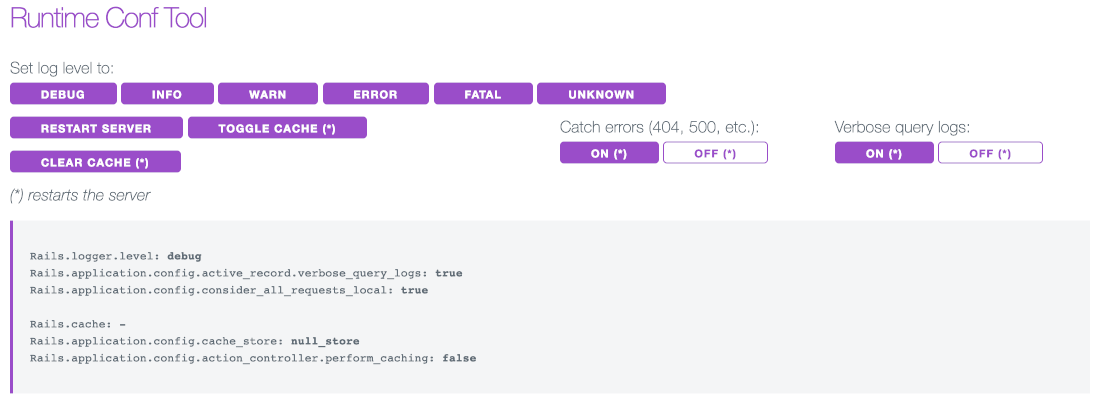
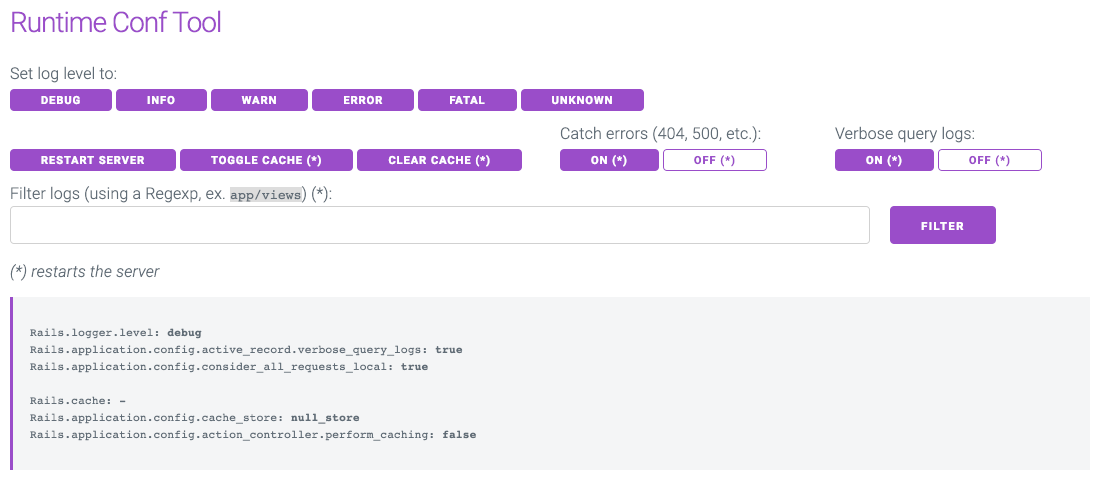
✨ Add filter_logs feature
- Add an option to filter log lines using a regular expression

diff --git a/lib/runtime_conf_tool/middleware.rb b/lib/runtime_conf_tool/middleware.rb
@@ -3,19 +3,28 @@
 module RuntimeConfTool
   LOGGER_SEVERITY = %w[debug info warn error fatal unknown].freeze # https://github.com/ruby/ruby/blob/trunk/lib/logger.rb
 
-  # The middleware
   class Middleware
     def initialize(app, options = {})
       @app = app
       @params = {
-        catch_errors:       ConfParam.new(:catch_errors, Rails.configuration, :consider_all_requests_local),
-        assets_logs:        ConfParam.new(:assets_logs, Rails.configuration.assets, :quiet),
+        assets_logs: ConfParam.new(:assets_logs, Rails.configuration.assets, :quiet),
+        catch_errors: ConfParam.new(:catch_errors, Rails.configuration, :consider_all_requests_local),
+        filter_logs: ConfParam.new(:filter_logs, nil, :filter_logs, ->(value) {
+          regexp = Regexp.new value, Regexp::IGNORECASE
+          Rails.logger = ActiveSupport::Logger.new STDOUT
+          Rails.logger.formatter = proc do |_severity, _time, _progname, msg|
+            "#{msg}\n" if msg =~ regexp
+          end
+        }),
         verbose_query_logs: ConfParam.new(:verbose_query_logs, Rails.configuration.active_record, :verbose_query_logs),
       }
       @options = (options || {}).symbolize_keys
       @options[:path] ||= '/dev'
+
       Rails.configuration.after_initialize do
-        params_load.each { |k, v| @params[k.to_sym].set v }
+        params_load.each do |k, v|
+          @params[k.to_sym].set v
+        end
         params_reset
       end
     end
@@ -24,11 +33,8 @@ module RuntimeConfTool
       req = Rack::Request.new(env)
       return @app.call(env) unless req.path == @options[:path]
 
+      restart = false
       @actions = []
-      if req.params.include? 'restart'
-        restart_server
-        @actions.push 'Restarting server'
-      end
       if LOGGER_SEVERITY.include?((req.params['log'] || '').downcase)
         level = "Logger::#{req.params['log'].upcase}"
         Rails.logger.level = level.constantize
@@ -43,21 +49,31 @@ module RuntimeConfTool
       #   # Rails.configuration.assets.quiet = false
       #   params_save(@params[:assets_logs], req.params['assets_logs'] == '1')
       #   @actions.push "assets_logs: #{req.params['assets_logs'] == '1'}"
-      #   restart_server
+      #   restart = true
       # end
       if req.params.include? 'catch_errors'
         params_save(@params[:catch_errors], req.params['catch_errors'] == '1')
         @actions.push "catch_errors: #{req.params['catch_errors'] == '1'}"
-        restart_server
+        restart = true
       end
       if req.params.include? 'cache_clear'
         Rails.cache.clear
         @actions.push "cache_clear: #{req.params['cache_clear'] == '1'}"
       end
+      if req.params.include? 'filter_logs'
+        params_save(@params[:filter_logs], req.params['filter_logs'].strip)
+        @actions.push "filter logs: #{req.params['filter_logs'].strip}"
+        restart = true
+      end
       if req.params.include? 'verbose_query_logs'
         params_save(@params[:verbose_query_logs], req.params['verbose_query_logs'] == '1')
         @actions.push "verbose_query_logs: #{req.params['verbose_query_logs'] == '1'}"
+        restart = true
+      end
+      restart = true if req.params.include? 'restart'
+      if restart
         restart_server
+        @actions.push 'Restarting server'
       end
 
       [

diff --git a/lib/runtime_conf_tool/conf_param.rb b/lib/runtime_conf_tool/conf_param.rb
@@ -2,16 +2,18 @@
 
 module RuntimeConfTool
   class ConfParam
-    attr_reader :conf, :opt, :parent
+    attr_reader :exec, :conf, :opt, :parent
 
-    def initialize(opt, parent, conf)
+    def initialize(opt, parent, conf, exec = nil)
       @opt = opt
       @parent = parent
       @conf = conf
+      @exec = exec
     end
 
     def set(value)
-      @parent.send "#{@conf}=", value
+      @parent.send("#{@conf}=", value) if @parent
+      @exec.call(value) if @exec
     end
   end
 end

diff --git a/README.md b/README.md
@@ -1,8 +1,6 @@
-# Runtime Conf Tool
+# Runtime Conf Tool [![Gem Version](https://badge.fury.io/rb/runtime_conf_tool.svg)](https://badge.fury.io/rb/runtime_conf_tool)
 
 A middleware to change configuration parameters at runtime for Rails 5.
-
-**NOTE**: this is an alpha version, this gem is not yet released on rubygems, major changes could happen.
 
 ## Installation and Usage
 
@@ -19,6 +17,7 @@ A middleware to change configuration parameters at runtime for Rails 5.
 ## Features
 
 - Change log level
+- Filter log lines using a RegExp
 - Enable/disable catching errors
 - Eneble/disable verbose query logs
 - Toggle cache
